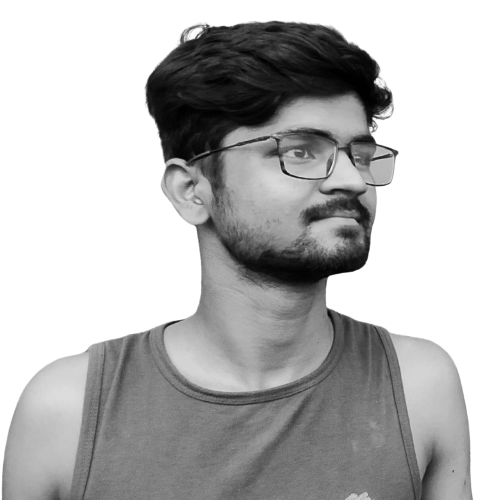
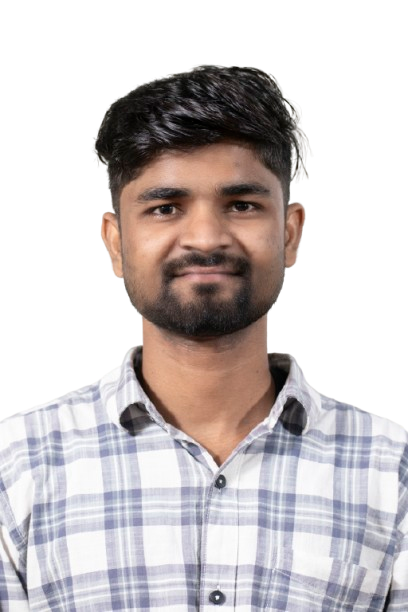
core :) home page done

diff --git a/src/style.css b/src/style.css
@@ -1,15 +1,11 @@
 html {
-  --section-background-color: linear-gradient(
-    to bottom left,
-    rgba(17, 16, 16, 0.582),
-    rgba(12, 8, 24, 0.904)
-  );
+  --section-background-color: linear-gradient(to bottom left,
+      rgba(17, 16, 16, 0.582),
+      rgba(12, 8, 24, 0.904));
 
-  --image-gradient: linear-gradient(
-    to bottom left,
-    rgba(17, 16, 16, 0.678),
-    rgba(12, 10, 22, 0.863)
-  );
+  --image-gradient: linear-gradient(to bottom left,
+      rgba(17, 16, 16, 0.678),
+      rgba(12, 10, 22, 0.863));
 
   --imp-text-color: #c770f0;
 }
@@ -151,10 +147,12 @@ button:focus {
     font-size: 1.4rem !important;
     background-color: #181a27 !important;
   }
+
   .navbar-nav .nav-item a::after {
     display: none !important;
   }
 }
+
 .navbar-brand {
   color: rgb(250, 250, 250) !important;
 }
@@ -214,10 +212,14 @@ button:focus {
 /* Home section */
 /* --------- */
 .wave {
-  animation-name: wave-animation; /* Refers to the name of your @keyframes element below */
-  animation-duration: 2.1s; /* Change to speed up or slow down */
-  animation-iteration-count: infinite; /* Never stop waving :) */
-  transform-origin: 70% 70%; /* Pivot around the bottom-left palm */
+  animation-name: wave-animation;
+  /* Refers to the name of your @keyframes element below */
+  animation-duration: 2.1s;
+  /* Change to speed up or slow down */
+  animation-iteration-count: infinite;
+  /* Never stop waving :) */
+  transform-origin: 70% 70%;
+  /* Pivot around the bottom-left palm */
   display: inline-block;
 }
 
@@ -225,28 +227,38 @@ button:focus {
   0% {
     transform: rotate(0deg);
   }
+
   10% {
     transform: rotate(14deg);
-  } /* The following five values can be played with to make the waving more or less extreme */
+  }
+
+  /* The following five values can be played with to make the waving more or less extreme */
   20% {
     transform: rotate(-8deg);
   }
+
   30% {
     transform: rotate(14deg);
   }
+
   40% {
     transform: rotate(-4deg);
   }
+
   50% {
     transform: rotate(10deg);
   }
+
   60% {
     transform: rotate(0deg);
-  } /* Reset for the last half to pause */
+  }
+
+  /* Reset for the last half to pause */
   100% {
     transform: rotate(0deg);
   }
 }
+
 #tsparticles {
   position: fixed !important;
   background-repeat: no-repeat !important;
@@ -294,6 +306,7 @@ button:focus {
   color: #be6adf !important;
   font-weight: 600 !important;
 }
+
 .Typewriter__cursor {
   font-size: 2.4em !important;
   color: #b562d6 !important;
@@ -305,6 +318,7 @@ button:focus {
     font-weight: 500 !important;
     position: absolute !important;
   }
+
   .Typewriter__cursor {
     display: none !important;
   }
@@ -313,6 +327,14 @@ button:focus {
 .myAvtar {
   justify-content: center !important;
   padding-top: 9em !important;
+}
+
+.myAvtar .img-fluid {
+  border-radius: 50%;
+  width: 210px;
+  height: 250px;
+  object-fit: cover;
+  object-position: top;
 }
 
 @media (max-width: 767px) {
@@ -410,8 +432,9 @@ button:focus {
   background-color: rgb(10, 4, 22);
   bottom: 0 !important;
   padding-top: 10px !important;
-  padding-bottom: 8px !important ;
+  padding-bottom: 8px !important;
 }
+
 .footer-copywright {
   text-align: center !important;
 }
@@ -437,6 +460,7 @@ button:focus {
   margin-top: 0.5em !important;
   margin-bottom: 0.5em !important;
 }
+
 .footer-icons {
   margin-top: 0.5em !important;
   margin-bottom: 0.5em !important;
@@ -446,6 +470,7 @@ button:focus {
 .blockquote-footer {
   color: #a588c0 !important;
 }
+
 /* --------- */
 /* Projects */
 /* --------- */
@@ -472,6 +497,7 @@ button:focus {
   transition: all 0.5s ease 0s !important;
   height: 100% !important;
 }
+
 .project-card-view:hover {
   transform: scale(1.02) !important;
   overflow: hidden !important;
@@ -532,10 +558,12 @@ button:focus {
   background-color: #6d20c5d7 !important;
   border-color: #6d20c5d7 !important;
 }
+
 .btn:focus {
   outline: none !important;
   box-shadow: none !important;
 }
+
 .project-heading {
   color: white !important;
   font-size: 2.3em !important;
@@ -594,6 +622,7 @@ button:focus {
   overflow: hidden !important;
   outline: 2.2px solid rgba(197, 115, 230, 0.883) !important;
 }
+
 .tech-icon-images {
   height: 1.6rem;
   line-height: 1.6 !important;
@@ -616,6 +645,7 @@ button:focus {
     padding-top: 0 !important;
   }
 }
+
 /* --------- */
 /* Resume */
 /* --------- */
@@ -653,6 +683,7 @@ button:focus {
     padding-left: 15px !important;
   }
 }
+
 .resume .resume-title {
   font-size: 2em;
   font-weight: 700;
@@ -729,10 +760,12 @@ button:focus {
   animation-fill-mode: forwards;
   animation-duration: 0.85s;
 }
+
 @keyframes likeAnimation {
   0% {
     transform: scale(1.5);
   }
+
   100% {
     transform: scale(1);
   }
@@ -756,6 +789,7 @@ button:focus {
   background-color: #a24dd386 !important;
   border-color: #a24dd386 !important;
 }
+
 .fork-btn-inner::after {
   display: none !important;
 }

diff --git a/src/components/Home/Home2.js b/src/components/Home/Home2.js
@@ -13,40 +13,39 @@ function Home2() {
               LET ME <span className="purple"> INTRODUCE </span> MYSELF
             </h1>
             <p className="home-about-body">
-              I'm a passionate and enthusiastic learner who loves to play with data structure and algorithms.
+              I am a versatile developer with a passion for building end-to-end solutions.
               <br />
-              <br />I am interested in
+              <br />I started my journey mastering
               <i>
-                <b className="purple"> Android Development </b>
+                <b className="purple"> Java </b>
               </i>
-              and problem-solving using
+              and
               <i>
-                <b className="purple"> Java. </b>
+                <b className="purple"> Android Development</b>
               </i>
-              <br />
-              <br />
-              My field of Interest's are building new &nbsp;
-              <i>
-                <b className="purple">Web Technologies and Products </b> and
-                also in areas related to{" "}
-                <b className="purple">
-                  Deep Learning and Natural Launguage Processing.
-                </b>
-              </i>
+              , creating intuitive mobile experiences.
               <br />
               <br />
-              Whenever possible, I also apply my passion for developing products
-              with <b className="purple">Node.js</b> and
+              Expanding my horizons, I delved into backend engineering with
               <i>
-                <b className="purple">
-                  {" "}
-                  Modern Javascript Library and Frameworks
-                </b>
+                <b className="purple"> Python </b>
               </i>
-              &nbsp; like
+              , leveraging powerful frameworks like
               <i>
-                <b className="purple"> React.js and Next.js</b>
+                <b className="purple"> Django and FastAPI </b>
               </i>
+              to build scalable APIs and microservices.
+              <br />
+              <br />
+              Currently, I am deeply invested in the world of
+              <i>
+                <b className="purple"> Generative AI </b>
+              </i>
+              and
+              <i>
+                <b className="purple"> Large Language Models (LLMs)</b>
+              </i>
+              , exploring how to integrate intelligent agents into modern web and mobile applications.
             </p>
           </Col>
           <Col md={4} className="myAvtar">

diff --git a/src/components/Home/Type.js b/src/components/Home/Type.js
@@ -8,8 +8,8 @@ function Type() {
         strings: [
           "Android Developer",
           "Java Developer",
-          "Python Developer",
-          "Problem Solver",
+          "Python Developer (Django & FastAPI)",
+          "Generative AI Engineer",
           "Open Source Contributor",
         ],
         autoStart: true,
